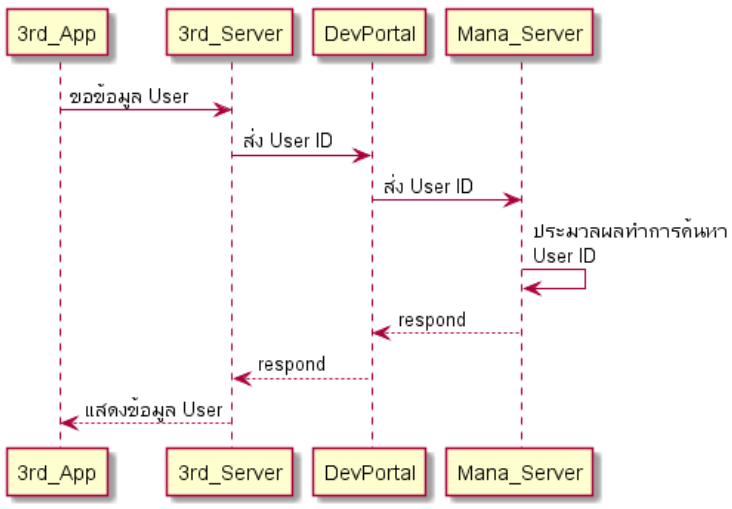
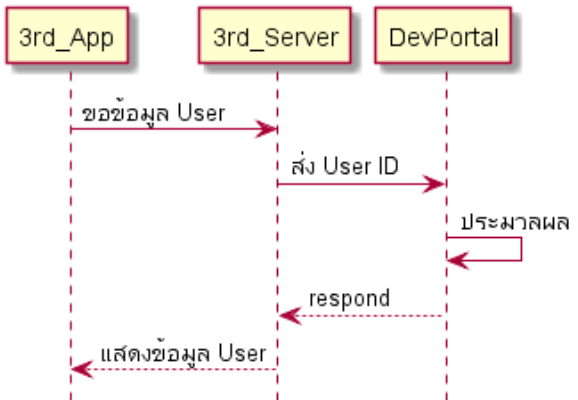
edit overview

diff --git a/docs/Introduction/Overview.md b/docs/Introduction/Overview.md
@@ -1,12 +1,15 @@
 # mana  
-เป็นแอพพลิเคชั่นที่เป็นกระเป๋าเงินอิเล็กทรอนิกส์ซึ่ง สามารถทำธุรกรรมการเงินส่วนบุคคลหรือจะเลือกความสามารถในการสร้างกระเป๋าเงิน อีกทั้งยังเป็น Platform ชนิดหนึ่งที่เปิดให้นักพัฒนาภายนอก (3rd Party) สามารถเข้ามาร่วมงานกับ mana เช่นหากนักพัฒนาต้องการทำแอพลิเคชั่นที่เกี่ยวกับเครื่องซักผ้าหยอดเหรียญ ที่เครื่องซักผ้าจะทำงานโดยอัตโนมัติทันทีเมื่อมีการจ่ายเงินเข้ามา ซึ่งจากตัวอย่างที่ยกมาข้างต้นเมื่อมี Transaction เกิดขึ้น 3rd Party จะสามารถรับรู้ได้หากทำการ RegisterHook ไว้ตั้งแต่แรก ซึ่งกระบวนการการทำงานดังกล่าวจะทำโดยผ่านตัวกลางที่ชื่อว่า [DevPortal](https://mana-sand-portal.developer.azure-api.net) 
+เป็นแอพพลิเคชั่นที่เป็นกระเป๋าเงินอิเล็กทรอนิกส์ซึ่ง สามารถทำธุรกรรมการเงินส่วนบุคคลหรือจะเลือกความสามารถในการสร้างกระเป๋าเงิน อีกทั้งยังเป็น Platform ชนิดหนึ่งที่เปิดให้นักพัฒนาภายนอก (3rd Party) สามารถเข้ามาร่วมงานกับ mana เช่นหากนักพัฒนาต้องการทำแอพลิเคชั่นที่เกี่ยวกับเครื่องซักผ้าหยอดเหรียญ ที่เครื่องซักผ้าจะทำงานโดยอัตโนมัติทันทีเมื่อมีการจ่ายเงินเข้ามา 
 
-![a](../img/Introduction/manaPlant.PNG)
 
-# DevPortal
-เป็นตัวกลางในการเชื่อมต่อข้อมูลระหว่างระบบของ mana กับนักพัฒนาหรือระบบของนักพัฒนาเชื่อมต่อกลับมายัง mana ทั้งนี้จัดทำขึ้นเพื่อให้นักพัฒนาสามารถเข้าถึงข้อมูลต่างๆ ได้โดยที่ยังอยู่ในขอบเขตข้อตกลงที่ถูกกำหนดไว้ ซึ่งหลังจากที่นักพัฒนาทำการเชื่อมกับ DevPortal เรียบร้อยแล้วและต้องการทดลองเล่นความสามารถที่ถูกพัฒนาขึ้นมาใหม่นี้ก็สามารถทดลองเล่นได้ใน Sandbox environment ซึ่งหากความสามารถใหม่ที่พัฒนาขึ้นมานั้นต้องใช้งานควบคู่กับแอพพลิเคชั่น Mana ผู้พัฒนาก็ต้องทำการดาวน์โหลด [Mana app sandbox](../Quickstarts/APIs.md) เพื่อใช้งานใน Environment เดียวกัน
+ซึ่งจากตัวอย่างที่ยกมาข้างต้นเมื่อมี Transaction เกิดขึ้น 3rd Party จะสามารถรับรู้ได้หากทำการ RegisterHook ไว้ตั้งแต่แรก ซึ่งกระบวนการการทำงานดังกล่าวจะทำโดยผ่านตัวกลางที่ชื่อว่า [DevPortal](https://mana-sand-portal.developer.azure-api.net) 
 
 ![a](../img/Introduction/devportalplant.PNG)
 
+# DevPortal
+เป็นตัวกลางในการเชื่อมต่อข้อมูลระหว่างระบบของ mana กับนักพัฒนาหรือระบบของนักพัฒนาเชื่อมต่อกลับมายัง mana ทั้งนี้จัดทำขึ้นเพื่อให้นักพัฒนาสามารถเข้าถึงข้อมูลต่างๆ ได้โดยที่ยังอยู่ในขอบเขตข้อตกลงที่ถูกกำหนดไว้ 
+
+
+ซึ่งหลังจากที่นักพัฒนาทำการเชื่อมกับ DevPortal เรียบร้อยแล้วและต้องการทดลองเล่นความสามารถที่ถูกพัฒนาขึ้นมาใหม่นี้ก็สามารถทดลองเล่นได้ใน Sandbox environment ซึ่งหากความสามารถใหม่ที่พัฒนาขึ้นมานั้นต้องใช้งานควบคู่กับแอพพลิเคชั่น Mana ผู้พัฒนาก็ต้องทำการดาวน์โหลด [Mana app sandbox](../Quickstarts/test_in_sandbox.md) เพื่อใช้งานใน Environment เดียวกัน
 
 และเมื่อทีมนักพัฒนาทำการทดสอบ Environments Sandbox จนพอใจแล้ว ก็จะทำการ Publish ขึ้นไปยัง Production เพื่อให้ User ได้ใช้งานจริง

diff --git a/docs/img/Introduction/devportal.md b/docs/img/Introduction/devportal.md
@@ -2,17 +2,11 @@
 participant 3rd_App as Foo
 participant 3rd_Server as Foo1
 participant DevPortal as Foo2
-participant Mana_Server as Foo3
-
-
 
 Foo -> Foo1 : ขอข้อมูล User 
 Foo1 -> Foo2 : ส่ง User ID
-Foo2 -> Foo3 : ส่ง User ID
-Foo3 -> Foo3 : ประมวลผลทำการค้นหา\nUser ID
-Foo3 --> Foo2 : respond
+Foo2 -> Foo2 : ประมวลผล
 Foo2 --> Foo1 : respond
 Foo1 --> Foo : แสดงข้อมูล User
-
-
+hide footbox
 @enduml
